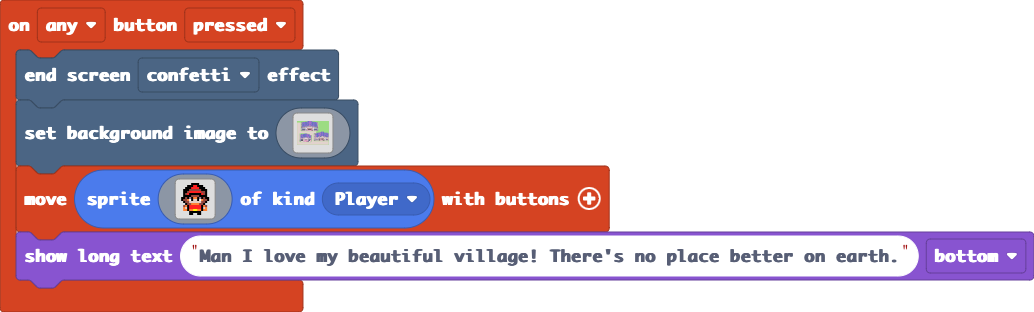
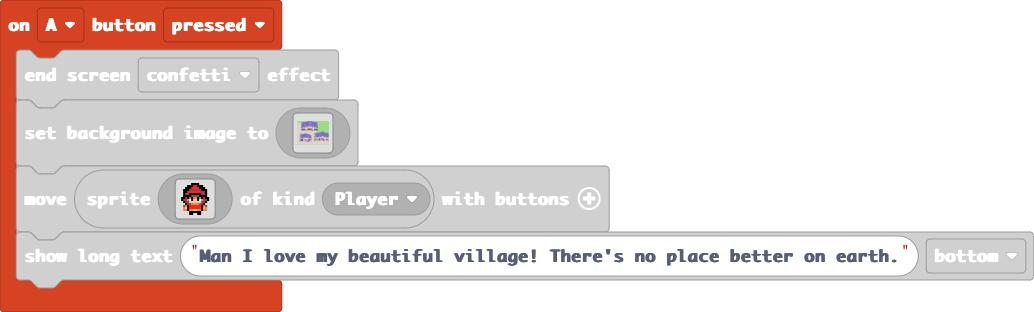
Update main.blocks, main.ts, tilemap.g.jres, tilemap.g.ts

Changed region(s): [[0.0, 0.0, 1.0, 1.0], [0.1547, 0.0, 0.1857, 0.0288]]

diff --git a/tilemap.g.ts b/tilemap.g.ts
@@ -3,6 +3,31 @@ namespace myTiles {
     //% fixedInstance jres blockIdentity=images._tile
     export const transparency16 = image.ofBuffer(hex``);
 
+    helpers._registerFactory("tilemap", function(name: string) {
+        switch(helpers.stringTrim(name)) {
+            case "level1":
+            case "level1":return tiles.createTilemap(hex`1000100004010101010101010101010101010202010203020101010301040501010103020102040201010101010101010401010105020204010105010401010301010401010101010101010101010101010501010101010104010202020105010101010103020401010102020201020202010103020201010301020202010202020104010204010101010401050102020201010101050101010101010101010101010101010101040104050101050101050105040301010102020201010101010103010101010101020202010403010101010101040101010202020101010101010202020101010301040104010101010102020201010101010405010301010101020202`, img`
+. . . . . . . . . . . . . . . . 
+. . . . . . . . . . . . . . . . 
+. . . . . . . . . . . . . . . . 
+. . . . . . . . . . . . . . . . 
+. . . . . . . . . . . . . . . . 
+. . . . . . . . . . . . . . . . 
+. . . . . . . . . . . . . . . . 
+. . . . . . . . . . . . . . . . 
+. . . . . . . . . . . . . . . . 
+. . . . . . . . . . . . . . . . 
+. . . . . . . . . . . . . . . . 
+. . . . . . . . . . . . . . . . 
+. . . . . . . . . . . . . . . . 
+. . . . . . . . . . . . . . . . 
+. . . . . . . . . . . . . . . . 
+. . . . . . . . . . . . . . . . 
+`, [myTiles.transparency16,sprites.castle.tileGrass2,sprites.castle.tileDarkGrass2,sprites.builtin.forestTiles0,sprites.castle.tileGrass1,sprites.swamp.swampTile2], TileScale.Sixteen);
+        }
+        return null;
+    })
+
     helpers._registerFactory("tile", function(name: string) {
         switch(helpers.stringTrim(name)) {
             case "transparency16":return transparency16;

diff --git a/main.ts b/main.ts
@@ -1,4 +1,4 @@
-controller.anyButton.onEvent(ControllerButtonEvent.Pressed, function () {
+controller.A.onEvent(ControllerButtonEvent.Pressed, function () {
     effects.confetti.endScreenEffect()
     scene.setBackgroundImage(assets.image`Village`)
     controller.moveSprite(sprites.create(img`
